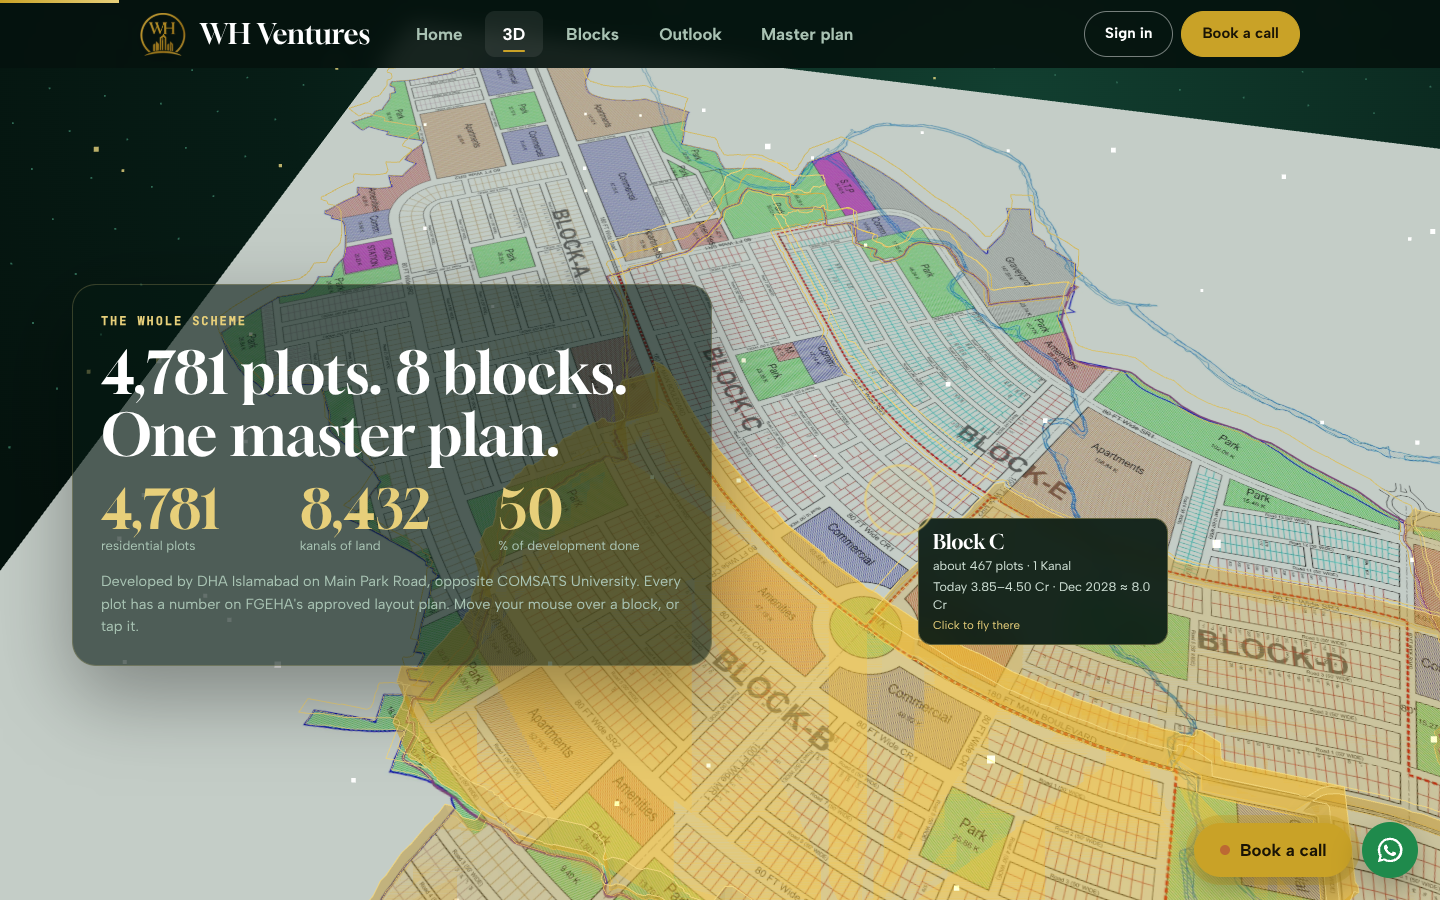
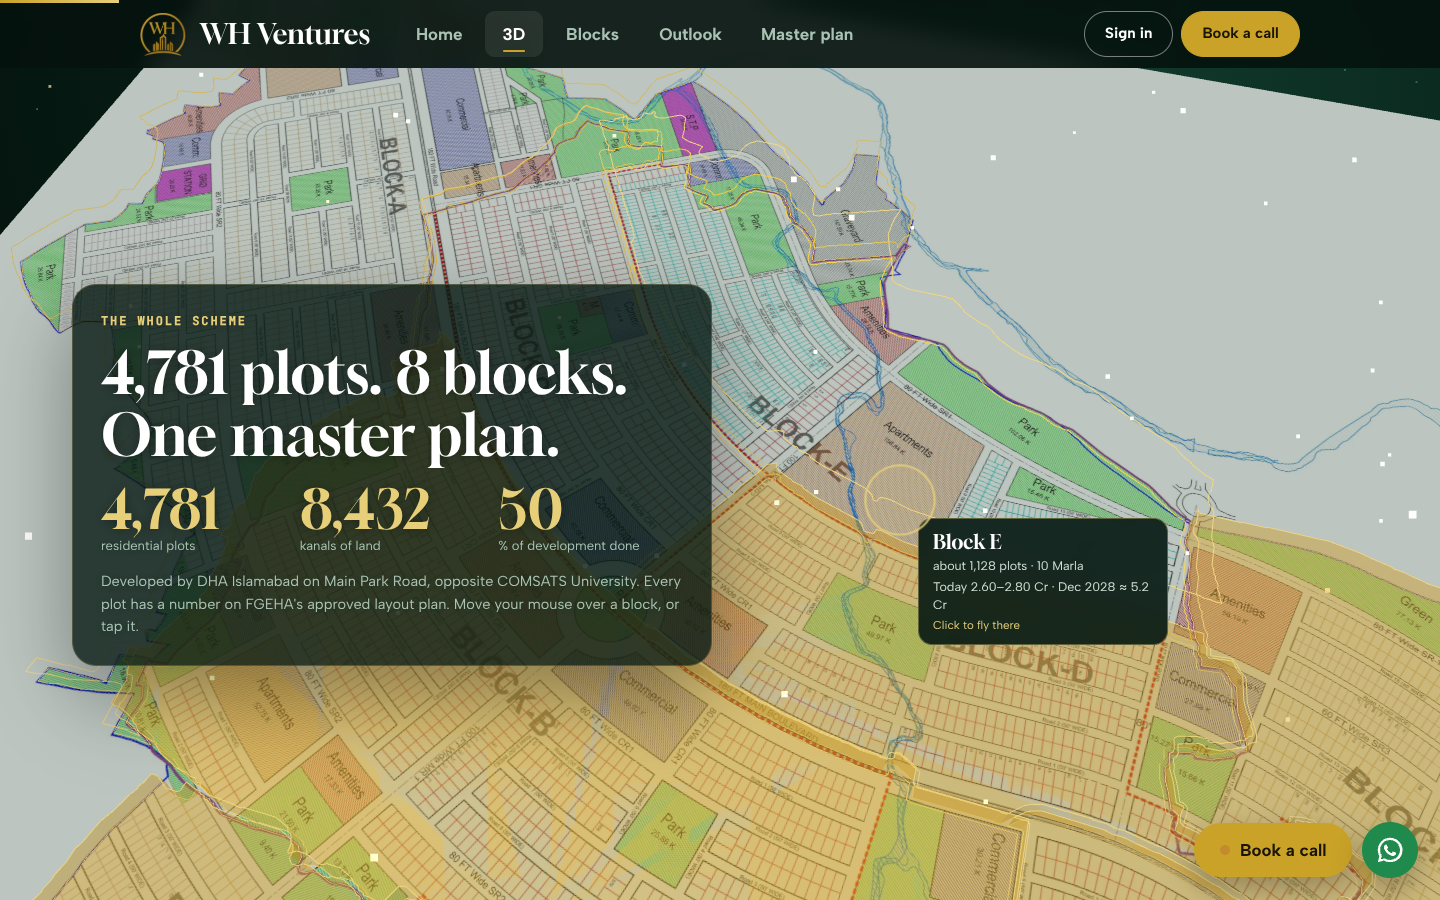
3D website: fix scroll jumps on phones, wrong block lit, framing and readability
- Phones: the end of every swipe was read as a tap on a block, so the page flew
  to the block under the finger (A to G, or stuck at B). Now only a short tap
  with no movement flies to a block; swipes only scroll.
- Finger movement no longer counts as a mouse hover (it kept Block B lit while
  the page showed Block A); in a block chapter only that block is lit.
- The camera fits the whole block into the free part of the screen (right of
  the card on a laptop, above the card on a phone); camera movement is time-
  based, so it arrives in about 1.5 s on any device.
- Readability: the map is about 12% dimmer behind the cards, the cards are
  more opaque, and the active block is a clearer gold.
- Test fix: flow-art loads its data on a plain file of the same site, so an
  open app page cannot save an empty copy over it (the cause of a flaky run).

Claude-Session: https://claude.ai/code/session_012xCc4tBwxEs8vMD8FDEPty

diff --git a/dha-orchard/app/web/src/experience.js b/dha-orchard/app/web/src/experience.js
@@ -88,13 +88,19 @@ function camFor(key) {
   const wide = innerWidth / innerHeight;
   const phone = innerWidth < 760;
   if (ACTIVE.includes(key)) {
+    // fit the whole block into the part of the screen that the card does not cover:
+    // a wide screen: the right 55%; a phone: the top 45% (the card is at the bottom)
     const bb = G.geo.blocks[key].bbox;
     const [x0, z0] = toWorld(bb[0], bb[1]), [x1, z1] = toWorld(bb[2], bb[3]);
-    const cx = (x0 + x1) / 2, cz = (z0 + z1) / 2, size = Math.max(x1 - x0, z1 - z0);
-    const d = Math.min(3.4, Math.max(1.5, size * (phone ? 1.6 : 1.2))); // close enough to see the homes on the plots
-    // on a wide screen the card is on the left: look a little to the left of the block, so the block sits on the right
-    const shift = phone ? 0 : size * 0.45 + 0.5;
-    return { pos: [cx - shift * 0.3, d * 1.05, cz + d * 0.75], look: [cx - shift, 0, cz + (phone ? d * 0.22 : 0.1)] };
+    const cx = (x0 + x1) / 2, cz = (z0 + z1) / 2, w = x1 - x0, dz = z1 - z0;
+    const el = 0.98; // the camera looks down at about 56 degrees
+    const tanV = Math.tan((42 * Math.PI) / 360), tanH = tanV * wide;
+    const fx = phone ? 0.86 : 0.5, fy = phone ? 0.5 : 0.78;
+    const D = 1.12 * Math.max(w / (2 * tanH * fx), (dz * Math.sin(el) + 0.2) / (2 * tanV * fy), 0.9);
+    const viewW = 2 * D * tanH, viewH = 2 * D * tanV;
+    const lx = phone ? cx : cx - viewW * 0.2;               // the block sits right of centre
+    const lz = phone ? cz + (viewH * 0.24) / Math.sin(el) : cz; // on a phone the block sits in the top part
+    return { pos: [lx, D * Math.sin(el), lz + D * Math.cos(el)], look: [lx, 0, lz], fit: true };
   }
   const D = Math.max(pw, ph) * (phone ? 1.45 : 1.0) / Math.min(1.6, wide);
   if (key === "hero") return { pos: [phone ? 0 : -pw * 0.22, D * 0.8, D * 0.9], look: [phone ? 0 : -pw * 0.3, 0, phone ? 1.2 : 0.2] };
@@ -206,24 +212,29 @@ function frame(now) {
   if (document.hidden) return;
   const rm = reduce(), t = (now - X.t0) / 1000;
   // camera: ease towards the chapter's view, plus a small move with the pointer
-  const k = rm ? 1 : 0.045;
+  const fdt = Math.min(0.25, (now - (X.camT || now)) / 1000); X.camT = now;
+  const k = rm ? 1 : 1 - Math.exp(-fdt * 2.6); // time-based: the camera arrives in about 1.5 s on any device
   const tp = new THREE.Vector3(...X.cam.pos), tl = new THREE.Vector3(...X.cam.look);
-  if (!rm) { tp.x += X.pointer[0] * 0.6; tp.y += X.pointer[1] * 0.35; if (X.active === "overview" || X.active === "book") { tp.applyAxisAngle(new THREE.Vector3(0, 1, 0), Math.sin(t * 0.12) * 0.25); } }
+  const par = X.cam.fit ? 0.12 : 1;
+  if (!rm) { tp.x += X.pointer[0] * 0.6 * par; tp.y += X.pointer[1] * 0.35 * par; if (X.active === "overview" || X.active === "book") { tp.applyAxisAngle(new THREE.Vector3(0, 1, 0), Math.sin(t * 0.12) * 0.25); } }
   X.cur.pos.lerp(tp, k); X.cur.look.lerp(tl, k);
   X.camera.position.copy(X.cur.pos); X.camera.lookAt(X.cur.look);
   // blocks rise; the active one rises highest and glows
   for (const b of ACTIVE) {
     const o = X.blocks[b];
-    const on = X.active === b || X.hover === b;
+    const inBlock = ACTIVE.includes(X.active);
+    const on = X.active === b || (X.hover === b && !inBlock);
+    if (on && o.lit !== true) { o.lit = true; } else if (!on) o.lit = false;
     const here = X.active === b;
     o.target = !X.loaded ? 0.001 : here ? 0.035 : X.comm.blocks[b].p > 0.6 && !on ? 0.02 : on ? 0.55 + Math.sin(t * 2) * 0.03 : ACTIVE.includes(X.active) ? 0.05 : 0.14 + 0.04 * Math.sin(t * 1.2 + ACTIVE.indexOf(b));
     o.h += (o.target - o.h) * (rm ? 1 : 0.07);
     o.group.scale.y = Math.max(0.001, o.h);
     const built = X.comm.blocks[b].p > 0.6;
-    o.mesh.material.opacity += ((here ? 0.16 : on ? 0.5 : built ? 0.04 : ACTIVE.includes(X.active) ? 0.12 : 0.26) - o.mesh.material.opacity) * 0.08;
-    o.mesh.material.emissiveIntensity += ((on ? 1.1 : 0.25) - o.mesh.material.emissiveIntensity) * 0.08;
-    o.edge.material.opacity += ((on ? 1 : ACTIVE.includes(X.active) ? 0.3 : built ? 0.45 : 0.85) - o.edge.material.opacity) * 0.08;
+    o.mesh.material.opacity += ((here ? 0.34 : on ? 0.5 : built ? 0.04 : ACTIVE.includes(X.active) ? 0.12 : 0.26) - o.mesh.material.opacity) * 0.08;
+    o.mesh.material.emissiveIntensity += ((on ? 1.4 : 0.25) - o.mesh.material.emissiveIntensity) * 0.08;
+    o.edge.material.opacity += ((on ? 1 : ACTIVE.includes(X.active) ? 0.15 : built ? 0.45 : 0.85) - o.edge.material.opacity) * 0.08;
   }
+  document.body.dataset.xlit = ACTIVE.filter((b) => X.blocks[b].lit).join("");
   if (X.loaded) X.planMat.opacity += (1 - X.planMat.opacity) * 0.05;
   // homes: they rise on a block when the camera arrives, and stay; at the end of the page the whole town is built
   if (X.loaded) {
@@ -238,7 +249,8 @@ function frame(now) {
   const nightT = Math.max(0, Math.min(1, (scrollY / scrollMax - 0.6) / 0.22));
   X.night += (nightT - X.night) * (rm ? 1 : 0.05);
   X.hemi.intensity = 1.4 - X.night * 1.05; X.sun.intensity = 2.2 - X.night * 1.9;
-  X.planMat.color.setRGB(0.557 - X.night * 0.27, 0.616 - X.night * 0.29, 0.58 - X.night * 0.24);
+  X.dim = (X.dim || 1) + (((ACTIVE.includes(X.active) || X.active === "overview" || X.active === "timeline" || X.active === "enclave") ? 0.88 : 1) - (X.dim || 1)) * 0.06;
+  X.planMat.color.setRGB((0.557 - X.night * 0.27) * X.dim, (0.616 - X.night * 0.29) * X.dim, (0.58 - X.night * 0.24) * X.dim);
   X.comm.setNight(X.night > 0.5);
   // the gold route line grows with the block chapters
   const idx = ACTIVE.indexOf(X.active);
@@ -280,13 +292,14 @@ function onScroll() {
   const mid = innerHeight * 0.5;
   secs.forEach((s) => { const r = s.getBoundingClientRect(); const d = r.top <= mid && r.bottom >= mid ? 0 : Math.min(Math.abs(r.top - mid), Math.abs(r.bottom - mid)); if (d < bd) { bd = d; best = s; } });
   const key = best ? best.dataset.cam : "hero";
-  if (key !== X.active) { X.active = key; X.cam = camFor(key); }
+  if (key !== X.active) { X.active = key; X.cam = camFor(key); document.body.dataset.xactive = key; }
   const bar = document.querySelector(".xprog i");
   if (bar) bar.style.width = (scrollY / Math.max(1, document.documentElement.scrollHeight - innerHeight)) * 100 + "%";
 }
 function onResize() { if (!X) return; X.renderer.setSize(innerWidth, innerHeight); X.camera.aspect = innerWidth / innerHeight; X.camera.updateProjectionMatrix(); X.cam = camFor(X.active); }
 function onMove(e) {
   if (!X) return;
+  if (e.pointerType && e.pointerType !== "mouse") { X.mouse.set(-9, -9); if (X.hover) { X.hover = null; showTip(null); } return; }
   X.pointer = [(e.clientX / innerWidth - 0.5) * 2, -(e.clientY / innerHeight - 0.5) * 2];
   const over = e.target.closest && e.target.closest(".xcard,.xbook,a,button,input,textarea,header,.floatcta");
   X.mouse.set(over ? -9 : X.pointer[0], over ? -9 : X.pointer[1]);
@@ -303,19 +316,23 @@ function onMove(e) {
 }
 function onClick(e) {
   if (studioClick(e.target)) return;
+  if (matchMedia("(pointer: coarse)").matches) return; // phones: taps are handled by onTouch
   if (!X || !X.hover || (e.target.closest && e.target.closest(".xcard,.xbook,a,button,header"))) return;
   const s = document.getElementById("x-" + X.hover);
   if (s) s.scrollIntoView({ behavior: reduce() ? "auto" : "smooth", block: "center" });
 }
-function onTouch(e) { // a tap on a block flies there
-  if (!X || !e.changedTouches || !e.changedTouches[0]) return;
-  const t = e.changedTouches[0];
-  if (e.target.closest && e.target.closest(".xcard,.xbook,a,button,header,input,textarea")) return;
-  X.mouse.set((t.clientX / innerWidth - 0.5) * 2, -(t.clientY / innerHeight - 0.5) * 2);
-  X.ray.setFromCamera(X.mouse, X.camera);
+let touch0 = null;
+function onTouchStart(e) { const t = e.touches && e.touches[0]; touch0 = t ? { x: t.clientX, y: t.clientY, t: performance.now(), sy: scrollY } : null; }
+function onTouch(e) { // a short tap on a block flies there; a swipe (a scroll) does nothing
+  if (!X || !touch0 || !e.changedTouches || !e.changedTouches[0]) return;
+  const t = e.changedTouches[0], t0 = touch0; touch0 = null;
+  if (Math.hypot(t.clientX - t0.x, t.clientY - t0.y) > 10 || performance.now() - t0.t > 350 || Math.abs(scrollY - t0.sy) > 4) return;
+  if (e.target.closest && e.target.closest(".xcard,.xbook,.xs-view,a,button,header,input,textarea")) return;
+  const m = new THREE.Vector2((t.clientX / innerWidth - 0.5) * 2, -(t.clientY / innerHeight - 0.5) * 2);
+  X.ray.setFromCamera(m, X.camera);
   const hit = X.ray.intersectObjects(ACTIVE.map((b) => X.blocks[b].mesh))[0];
   const s = hit && document.getElementById("x-" + hit.object.userData.block);
-  if (s) s.scrollIntoView({ behavior: reduce() ? "auto" : "smooth", block: "center" });
+  if (s) { e.preventDefault?.(); s.scrollIntoView({ behavior: reduce() ? "auto" : "smooth", block: "center" }); }
 }
 
 function counters(root) {
@@ -344,7 +361,7 @@ export function experienceAfterRender() {
   if (!bound) {
     bound = true;
     addEventListener("scroll", onScroll, { passive: true }); addEventListener("resize", onResize);
-    addEventListener("pointermove", onMove, { passive: true }); addEventListener("click", onClick); addEventListener("touchend", onTouch, { passive: true });
+    addEventListener("pointermove", onMove, { passive: true }); addEventListener("click", onClick); addEventListener("touchstart", onTouchStart, { passive: true }); addEventListener("touchend", onTouch, { passive: true });
   }
   studioAfterRender();
   const loader = page.querySelector(".xloader");
@@ -376,7 +393,7 @@ export function stopExperience() {
   if (bound) {
     bound = false;
     removeEventListener("scroll", onScroll); removeEventListener("resize", onResize);
-    removeEventListener("pointermove", onMove); removeEventListener("click", onClick); removeEventListener("touchend", onTouch);
+    removeEventListener("pointermove", onMove); removeEventListener("click", onClick); removeEventListener("touchstart", onTouchStart); removeEventListener("touchend", onTouch);
   }
   if (!X) return;
   X.alive = false; cancelAnimationFrame(X.raf);

diff --git a/dha-orchard/app/web/src/styles.css b/dha-orchard/app/web/src/styles.css
@@ -936,7 +936,7 @@ body.xnogl{background:linear-gradient(rgba(4,18,13,.82),rgba(4,18,13,.92)),url(p
 .xhero{position:relative}
 .xscroll i{width:1px;height:46px;background:linear-gradient(#E7CF7A,transparent);animation:xdrop 1.8s ease-in-out infinite;transform-origin:top}
 @keyframes xdrop{0%{transform:scaleY(0)}50%{transform:scaleY(1)}100%{transform:scaleY(1);opacity:0}}
-.xcard{max-width:470px;display:grid;gap:14px;background:rgba(5,24,18,.62);backdrop-filter:blur(16px) saturate(1.2);-webkit-backdrop-filter:blur(16px) saturate(1.2);border:1px solid rgba(231,207,122,.22);border-radius:24px;padding:28px;box-shadow:0 30px 80px rgba(0,0,0,.35);opacity:0;transform:translateY(46px);transition:opacity .9s ease,transform 1.1s cubic-bezier(.2,.8,.2,1)}
+.xcard{max-width:470px;display:grid;gap:14px;background:rgba(5,24,18,.8);backdrop-filter:blur(18px) saturate(1.1);-webkit-backdrop-filter:blur(18px) saturate(1.1);border:1px solid rgba(231,207,122,.22);border-radius:24px;padding:28px;box-shadow:0 30px 80px rgba(0,0,0,.35);opacity:0;transform:translateY(46px);transition:opacity .9s ease,transform 1.1s cubic-bezier(.2,.8,.2,1)}
 .xcard.wide{max-width:640px}
 .xch.in .xcard{opacity:1;transform:none}
 .xcard h2{font:400 clamp(34px,4.2vw,58px)/1 var(--display);margin:0;color:#fff}
@@ -1040,3 +1040,7 @@ body.xnogl{background:linear-gradient(rgba(4,18,13,.82),rgba(4,18,13,.92)),url(p
   .xs-view{height:58vh;order:-1}
   .xstudio{padding-top:80px}
 }
+/* text over the 3D map: a soft shadow keeps it readable */
+.xcard,.xhero{text-shadow:0 1px 12px rgba(0,0,0,.35)}
+.xhero::before{content:"";position:absolute;inset:-20% -30% -20% -10vw;z-index:-1;background:radial-gradient(60% 55% at 30% 50%,rgba(4,18,13,.55),transparent 75%);pointer-events:none}
+.xp{overflow-x:clip}
